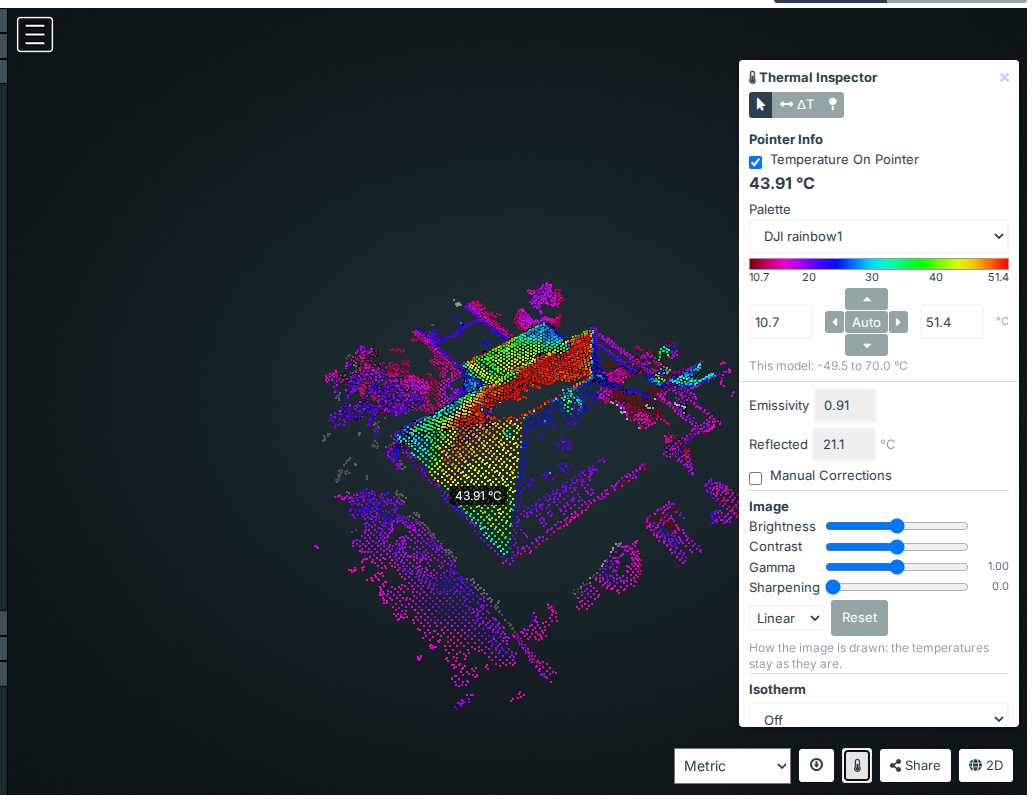
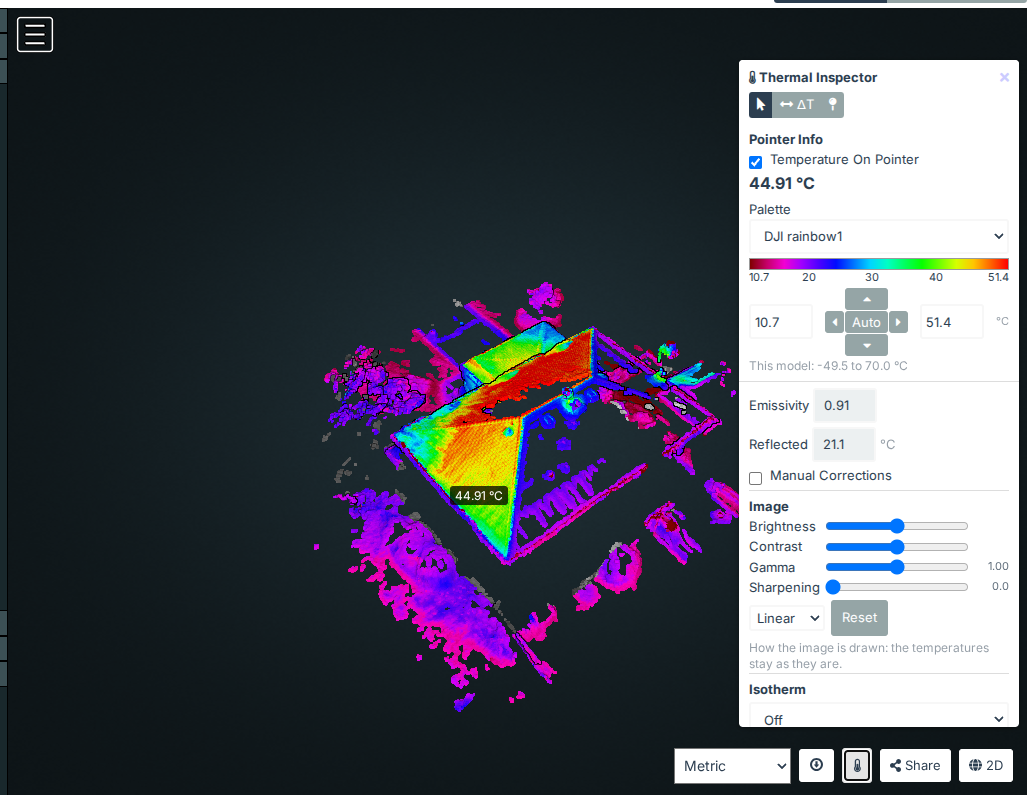
Thermal 3D: place the point cloud's nodes as Potree does, so all of it is coloured and drawn
The worker was sent each node's matrixWorld after three.js's updateMatrixWorld, which adds the parent nodes'
positions again: Potree gives each node a position in the cloud's coordinates and sets its matrix as the cloud's
times the node's own. Every node but the root was looked up hundreds of kilometres away (2.5 % of the points
coloured), and with its matrix overwritten was drawn out of sight. nodeMatrix works it out as Potree does and leaves
Potree's own alone: 99.0 % of the points now within 25 cm of the model.

Also records the end-to-end check of 3D readings against the textures and the 2D Inspector, and retakes the docs'
point cloud screenshot.

Changed region(s): [[0.3092, 0.3425, 0.7111, 0.9029]]

diff --git a/dji-thermal/public/__tests__/pointcloud3d.test.js b/dji-thermal/public/__tests__/pointcloud3d.test.js
@@ -59,13 +59,32 @@ describe("colouring the points", () => {
     });
 });
 
+describe("where a node's points are", () => {
+    test("the point cloud's matrix times the node's own, as Potree places it, not the node's parents' added again", () => {
+        // A child node at (410977, 4661801, 221) in the cloud's coordinates, under a parent at (410961, 4661801, 205):
+        // three.js's chain of parents would put it at their sum, hundreds of kilometres away
+        const at = (x, y, z) => [1, 0, 0, 0, 0, 1, 0, 0, 0, 0, 1, 0, x, y, z, 1];
+        const pointcloud = {matrixWorld: {elements: at(0, 0, 0)}};
+        const sceneNode = {matrix: {elements: at(410977, 4661801, 221)}, updateMatrix: jest.fn(),
+                           matrixWorld: {elements: at(821938, 9323602, 426)}};
+        const m = PointCloud3D.nodeMatrix(pointcloud, sceneNode);
+        expect(m.slice(12, 15)).toEqual([410977, 4661801, 221]);
+        expect(sceneNode.updateMatrix).toHaveBeenCalled();
+        expect(sceneNode.matrixWorld.elements.slice(12, 15)).toEqual([821938, 9323602, 426]);     // Potree's own, untouched
+        // The cloud moved and turned a quarter about z: the node's corner goes with it
+        pointcloud.matrixWorld.elements = [0, 1, 0, 0, -1, 0, 0, 0, 0, 0, 1, 0, 5, 6, 7, 1];
+        sceneNode.matrix.elements = at(1, 2, 3);
+        expect(PointCloud3D.nodeMatrix(pointcloud, sceneNode).slice(12, 15)).toEqual([5 - 2, 6 + 1, 7 + 3]);
+    });
+});
+
 describe("the point cloud as a source", () => {
     function setup() {
         const m = model();
         const rgba = Uint8Array.from([50, 50, 50, 255, 60, 60, 60, 255]);
         const geometry = {attributes: {position: {array: Float32Array.of(2, 3, 0, 2, 3, 5)}, rgba: {array: rgba, needsUpdate: false}}};
-        const node = {geometryNode: {geometry}, sceneNode: {matrixWorld: {elements: IDENTITY}, updateMatrixWorld: jest.fn()}};
-        const pointcloud = {visible: true, visibleNodes: [node]};
+        const node = {geometryNode: {geometry}, sceneNode: {matrix: {elements: IDENTITY}, updateMatrix: jest.fn()}};
+        const pointcloud = {visible: true, visibleNodes: [node], matrixWorld: {elements: IDENTITY}};
         const viewer = {scene: {pointclouds: [pointcloud]}};
         const fake = {ready: Promise.resolve({}), values: () => Promise.resolve(), materialIndexOf: (hit) => hit.object.material.__dtMaterial,
                       valueAt: (i, uv) => 10 + uv.x * 20, reading: (hit) => ({valid: true, temperature: 10 + hit.uv.x * 20})};

diff --git a/dji-thermal/public/pointcloud3d.js b/dji-thermal/public/pointcloud3d.js
@@ -13,6 +13,21 @@
 
     function clip01(x) { return x < 0 ? 0 : x > 1 ? 1 : x; }
 
+    // Where a node's points are in the world (its positions are from its box's corner), as Potree places it: the
+    // point cloud's matrix times the node's own, not three.js's chain of parents (Potree adds each node to its parent's,
+    // but gives it a position in the cloud's coordinates; three.js's updateMatrixWorld would add the parents' again,
+    // and leave Potree's own picking reading the wrong place). Column-major, 16 numbers
+    function nodeMatrix(pointcloud, sceneNode) {
+        sceneNode.updateMatrix();
+        var a = pointcloud.matrixWorld.elements, b = sceneNode.matrix.elements, out = new Array(16);
+        for (var c = 0; c < 4; c++) {
+            for (var r = 0; r < 4; r++) {
+                out[c * 4 + r] = a[r] * b[c * 4] + a[4 + r] * b[c * 4 + 1] + a[8 + r] * b[c * 4 + 2] + a[12 + r] * b[c * 4 + 3];
+            }
+        }
+        return out;
+    }
+
     // What the worker needs of the index, copied: its arrays, and each mesh's texture coordinates and material
     // (materialIndexOf: model3d's)
     function indexMessage(index, script, materialIndexOf) {
@@ -85,9 +100,8 @@
                 g.__dtCloud = state;
                 pending[id] = state;
                 nodes.push(state);
-                node.sceneNode.updateMatrixWorld(true);
                 worker.postMessage({type: "node", id: id, positions: Float32Array.from(g.attributes.position.array),
-                                    matrix: Array.prototype.slice.call(node.sceneNode.matrixWorld.elements)});
+                                    matrix: nodeMatrix(pc, node.sceneNode)});
             });
         }
 
@@ -144,7 +158,7 @@
         };
     }
 
-    var api = {source: source, colourPoints: colourPoints, indexMessage: indexMessage, LIMIT: LIMIT};
+    var api = {source: source, colourPoints: colourPoints, indexMessage: indexMessage, nodeMatrix: nodeMatrix, LIMIT: LIMIT};
     root.ThermalPointCloud3D = api;
     if (typeof module !== "undefined" && module.exports) module.exports = api;
 })(typeof window !== "undefined" ? window : {});

diff --git a/upcoming-changes.md b/upcoming-changes.md
@@ -2391,6 +2391,20 @@ Touch points in shared code (kept current while building):
 - WebODM doesn't load the textured model while the point cloud is shown: the plugin loads the GLB itself (WebODM's
   GLTFLoader and DRACOLoader are on the page) for the index, its textures dropped.
 
+**Validated end to end in the browser** (2026-11-13, HomerunObliqueII, 2000 random orthophoto pixels, each read by the
+3D Inspector's own code on the 3D page and by the 2D Inspector's `point` request):
+- The 3D reading against the texture TIFF at the hit's texture coordinates (the value PNGs, decoding, texel lookup,
+  rows as stored): within 0.001 °C at all 1949 hits (rows flipped would differ by a median 6 °C). The 2D reading against
+  the orthophoto TIFF's pixel: identical.
+- 3D against 2D at the same spot: up-facing surfaces median 0.33 °C (p90 1.3, p95 1.6); all surfaces 0.40 (p90 1.5);
+  walls and slopes 0.50 (p90 2.1). Moving the map by up to a metre either way never agrees better than not moving it
+  (best at 0, 0 on a 2 cm grid): the model and orthophoto are registered.
+- **Found and fixed**: the point cloud's nodes were placed with three.js's `updateMatrixWorld`, which adds each parent
+  node's position again (Potree places a node with the cloud's matrix times its own: `nodeMatrix`), so every node but
+  the root was looked up hundreds of kilometres away (2.5 % of points coloured) and, its matrix overwritten, drawn out
+  of sight (the cloud looked coarse). After: 99.0 % of 12.6k points within 25 cm (median 3 mm), the worker's lookups
+  identical to the main thread's, Hover reading picked points; the docs' point cloud screenshot retaken.
+
 **Steps**, each on this branch (`thermal-3d`), with its tests:
 1. The server's model answers (Django tests on a small GLB and TIFFs made in the test; refusals: no GLB, RGB
    textures, a material count that doesn't match).
